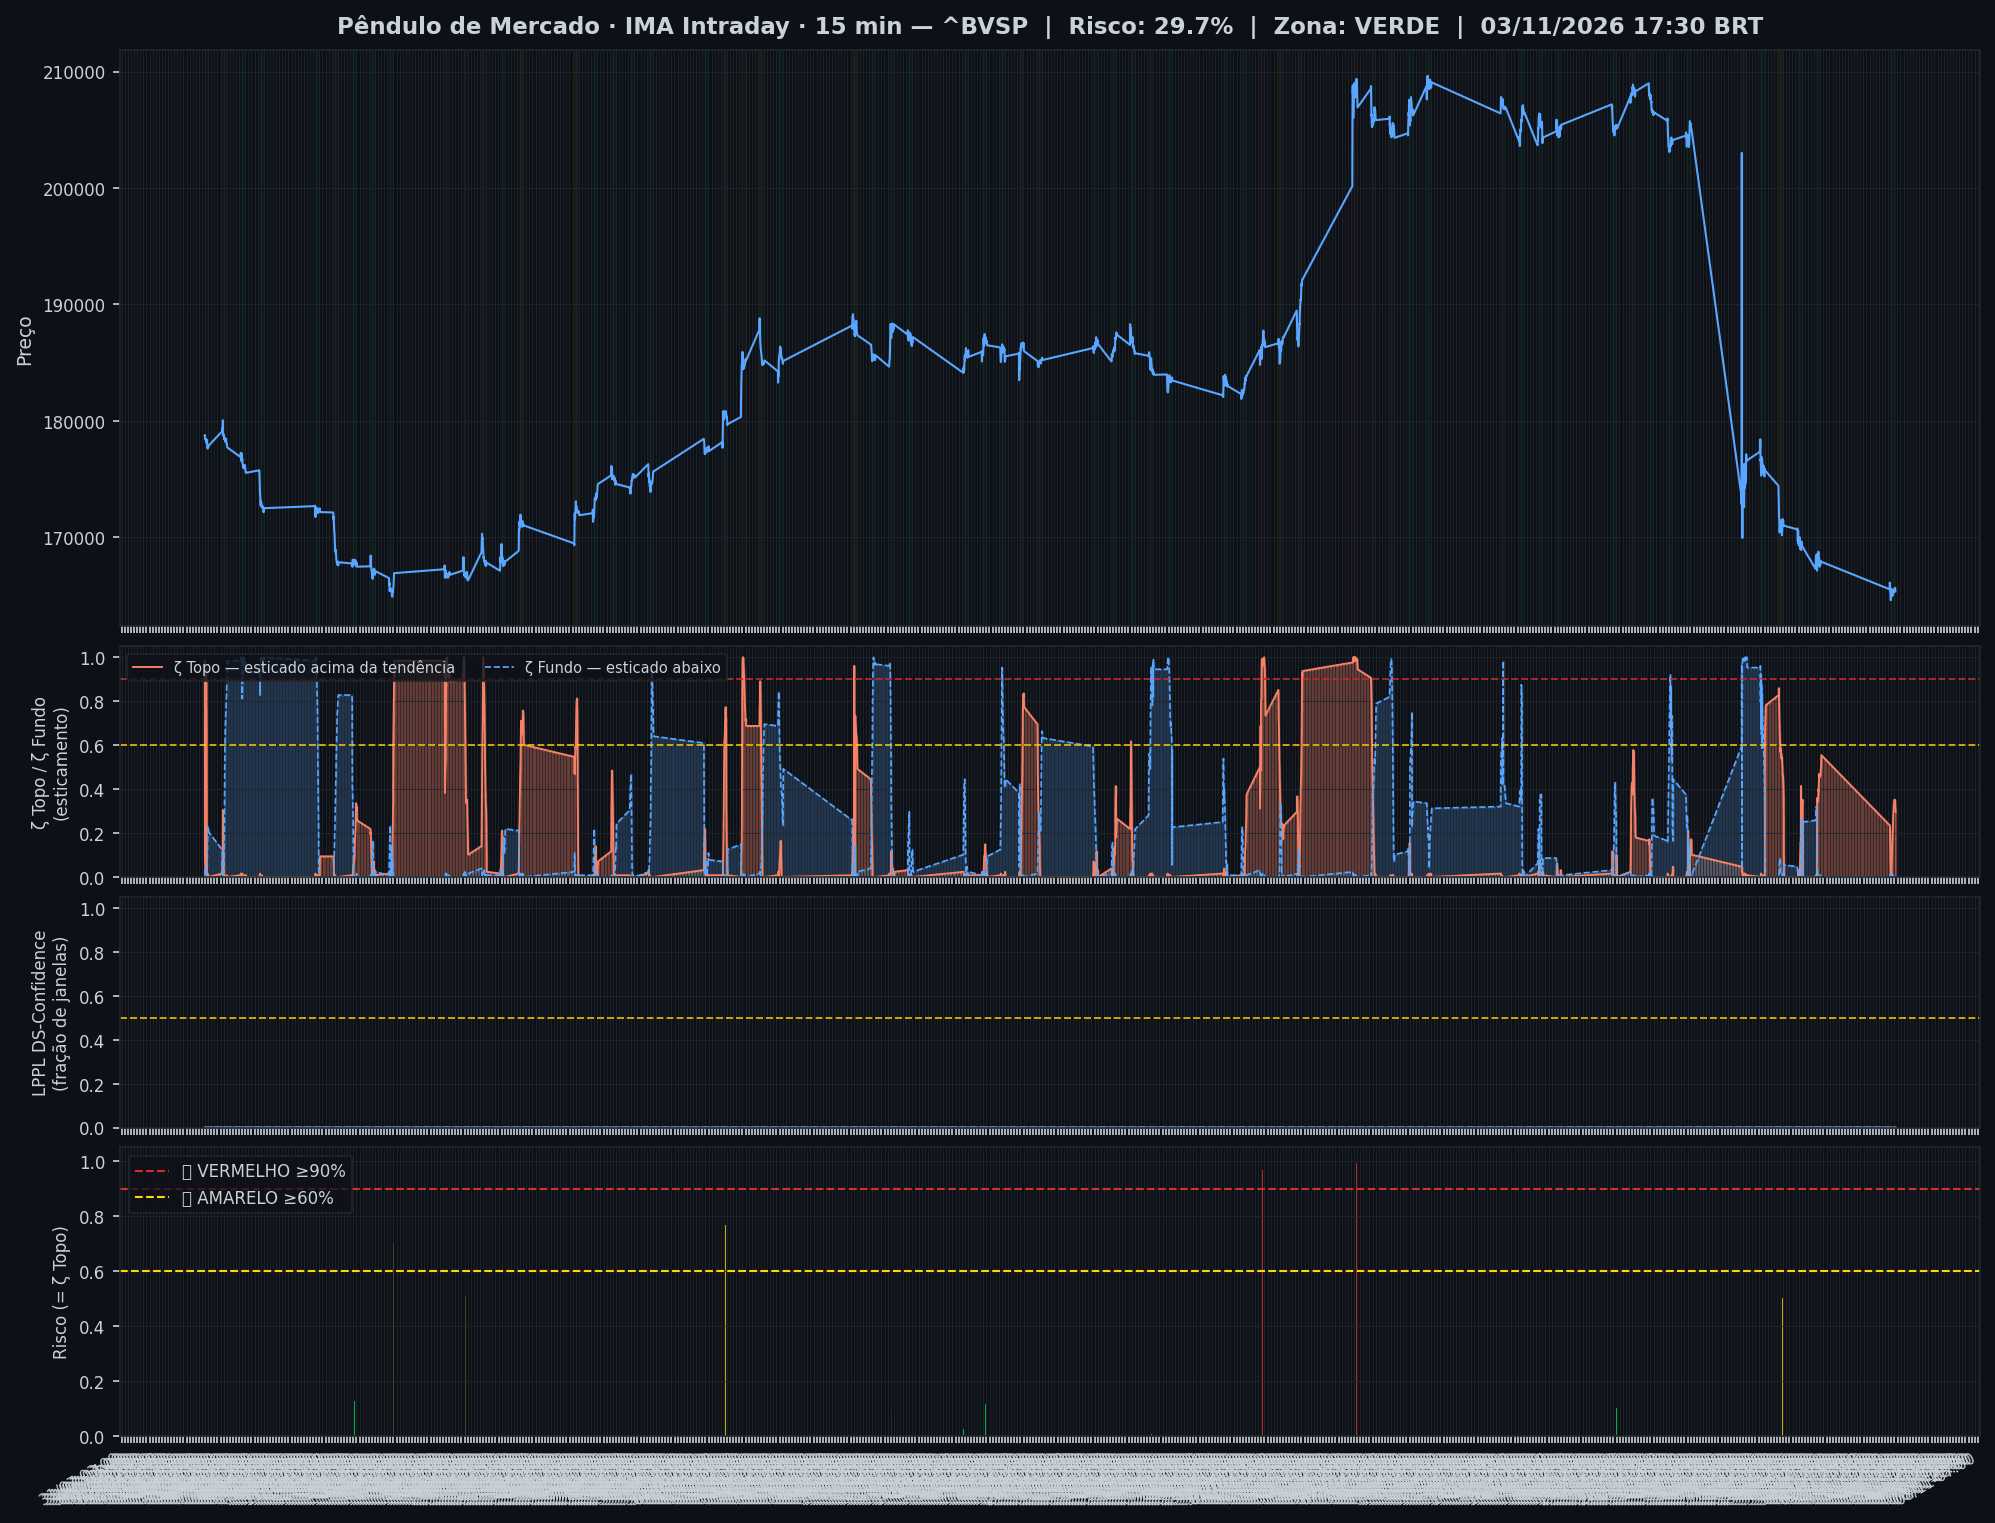
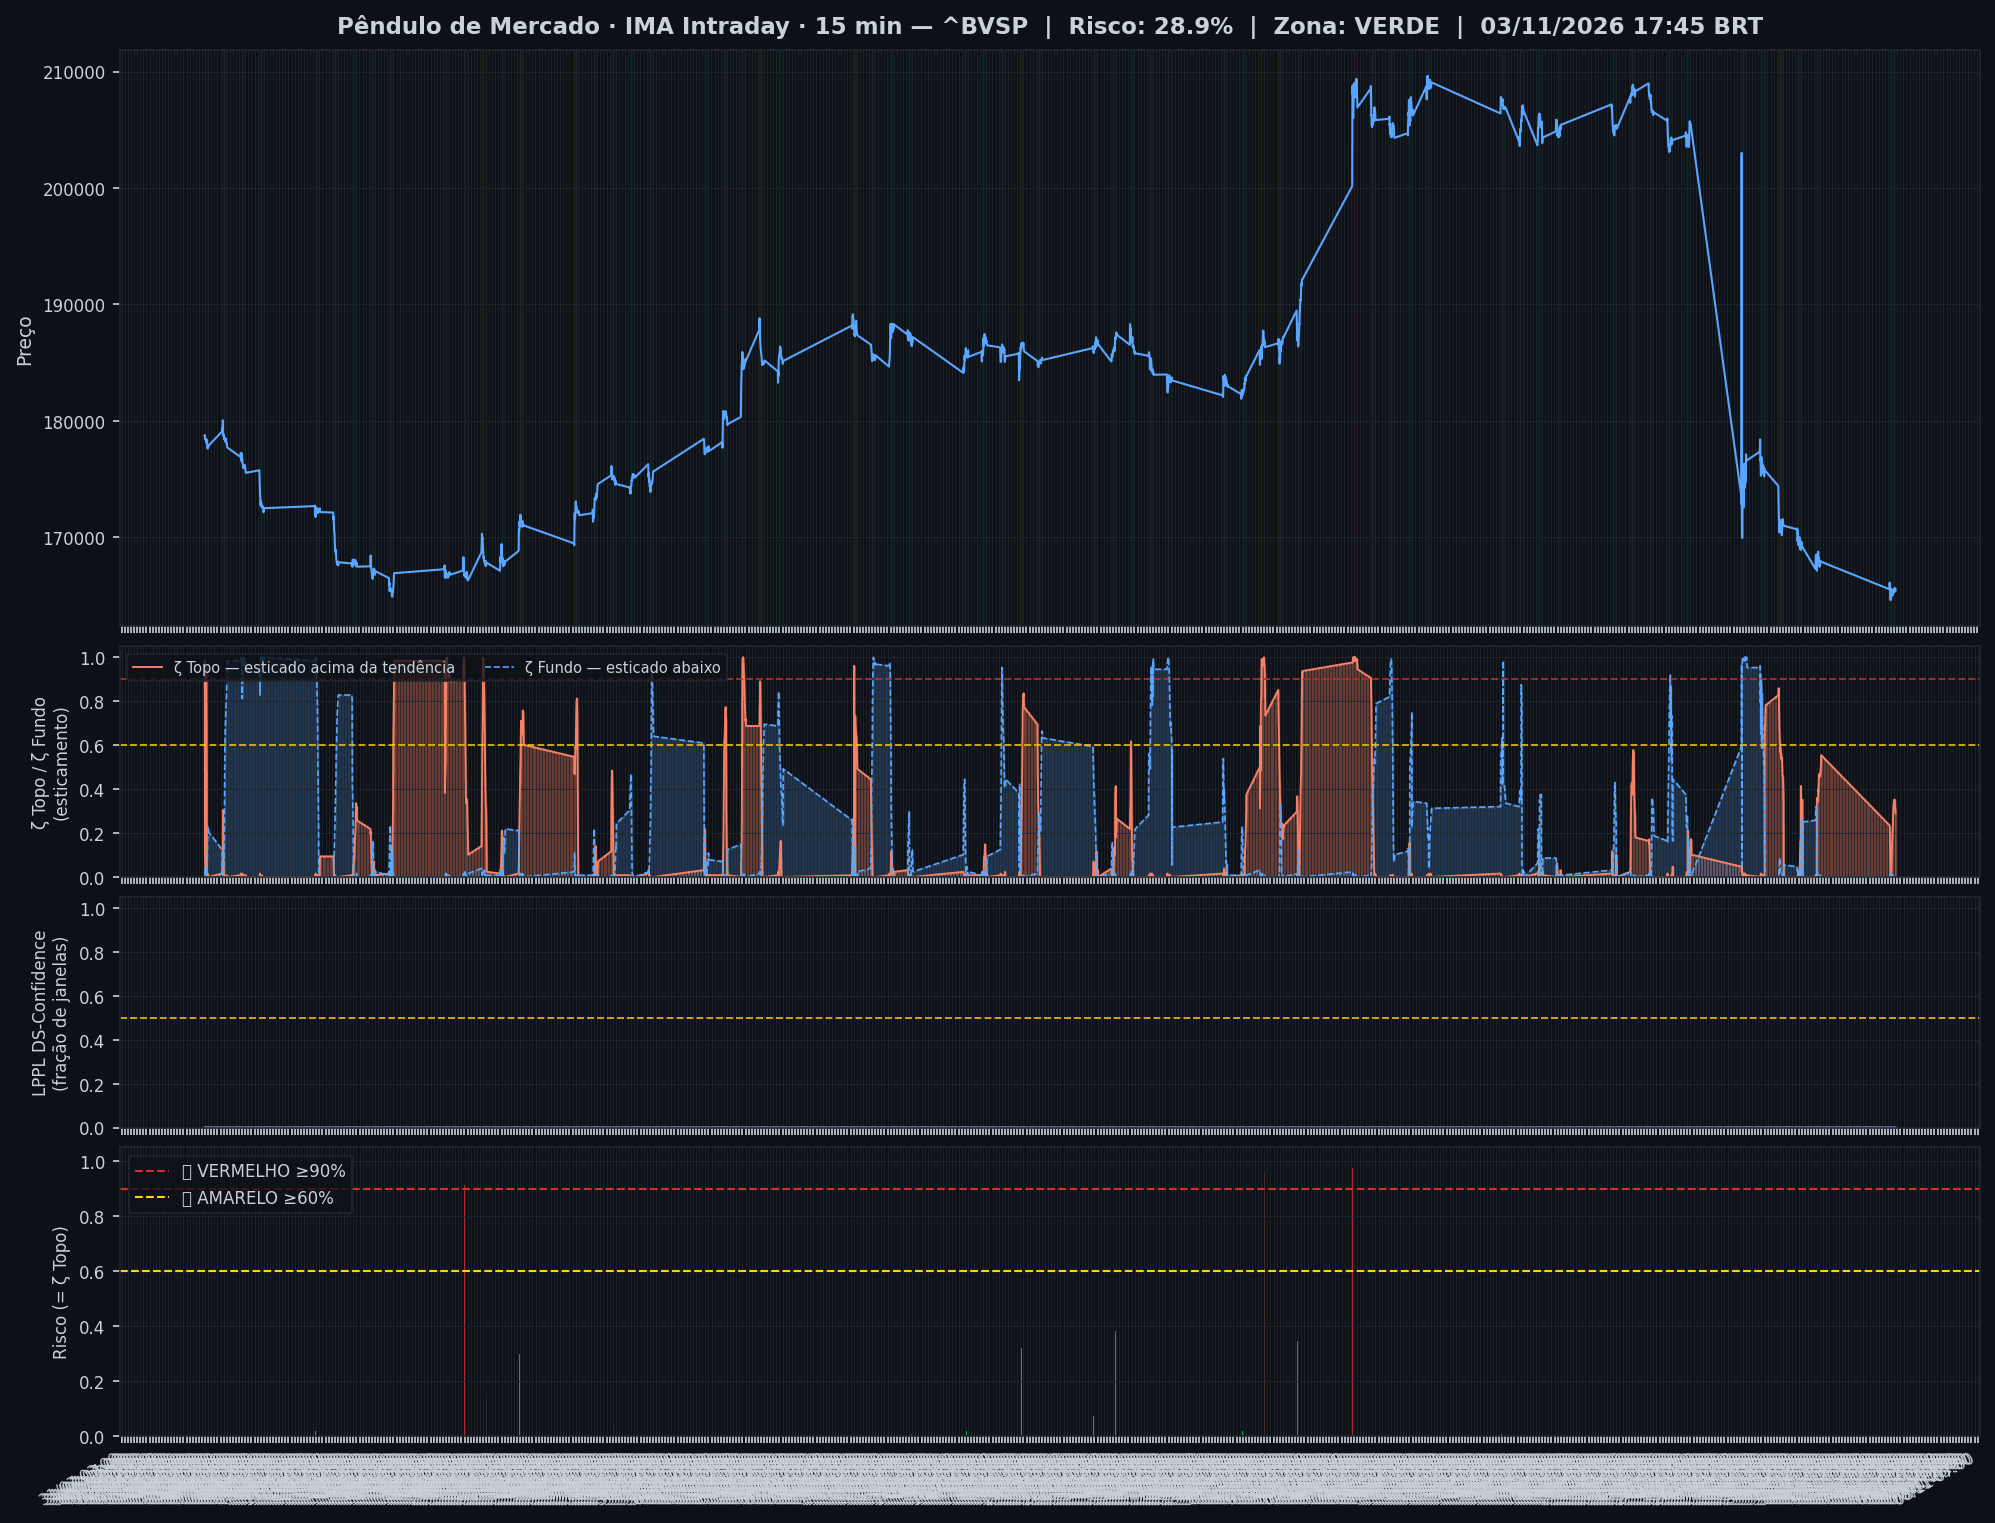
🤖 Auto: Sinal 03/11/2026 18:01

diff --git a/content/intraday/2026-11-03.md b/content/intraday/2026-11-03.md
@@ -1,10 +1,10 @@
 ---
-title: "🟢 Intraday 03/11/2026 17:30 BRT — VERDE"
+title: "🟢 Intraday 03/11/2026 17:45 BRT — VERDE"
 date: 2026-11-03
 tags: [intraday]
 ---
 
-> [!success] Onde o mercado está agora (03/11 17:30, candles de 15 min): **🟢 Calmo**
+> [!success] Onde o mercado está agora (03/11 17:45, candles de 15 min): **🟢 Calmo**
 > `Pânico ◀─────────────●───────▶ Euforia`
 >
 > O Ibovespa está dentro da sua faixa normal, sem excesso para cima nem para baixo.
@@ -20,7 +20,7 @@ tags: [intraday]
 > | 📍 **Sinais** | hoje: 2 sinal(is), 1 forte(s) | [abrir](sinais-topo-fundo/) |
 > | 🧪 **Placar ao vivo** | 1 operação(ões), 0 com lucro, soma -0,8% | [abrir](operacoes/) |
 
-> [!success] IMA Intraday · 15 min (03/11 17:30): 🟢 **VERDE** — Risco 30% · ▼ -2 p.p. vs leitura anterior
+> [!success] IMA Intraday · 15 min (03/11 17:45): 🟢 **VERDE** — Risco 29% · ▼ -1 p.p. vs leitura anterior
 > `██████░░░░░░░░░░░░░░`
 > Preço na faixa normal em torno da tendência.
 
@@ -32,13 +32,13 @@ tags: [intraday]
 >
 > *Leitura educacional baseada em 26 anos de dados, não recomendação. [Como usar](../metodologia/crise#3-como-usar-na-prática).*
 
-| Indicador — IMA Intraday · 15 min (03/11 17:30) | Valor |
+| Indicador — IMA Intraday · 15 min (03/11 17:45) | Valor |
 |---|---|
-| 🔴 ζ Topo — preço esticado acima da tendência | **30%** |
+| 🔴 ζ Topo — preço esticado acima da tendência | **29%** |
 | 🔵 ζ Fundo — preço esticado abaixo da tendência | 0% |
 | 🫧 LPPL bolha — alta super-exponencial (risco de crash) | 0% |
 | 🫧 LPPL antibolha — queda super-exponencial (risco de repique) | 0% |
-| 📊 Ibovespa | 165.366 pts |
+| 📊 Ibovespa | 165.569 pts |
 
 ![Gráfico do sinal](../graficos/sinal_intraday.png)
 
@@ -46,6 +46,7 @@ tags: [intraday]
 
 | Data | Zona | Evento | Risco | ζ Topo | ζ Fundo | LPPL |
 |---|---|---|---|---|---|---|
+| 2026-11-03 17:45 | 🟢 VERDE |  | **29%** | 29% | 0% | 0% |
 | 2026-11-03 17:30 | 🟢 VERDE |  | **30%** | 30% | 0% | 0% |
 | 2026-11-03 17:15 | 🟢 VERDE |  | **31%** | 31% | 0% | 0% |
 | 2026-11-03 17:00 | 🟢 VERDE |  | **32%** | 32% | 0% | 0% |
@@ -75,7 +76,6 @@ tags: [intraday]
 | 2026-11-03 11:00 | 🟢 VERDE |  | **2%** | 2% | 2% | 0% |
 | 2026-11-03 10:45 | 🟢 VERDE |  | **7%** | 7% | 1% | 0% |
 | 2026-11-03 10:30 | 🟢 VERDE |  | **13%** | 13% | 1% | 0% |
-| 2026-11-03 10:15 | 🟢 VERDE |  | **20%** | 20% | 1% | 0% |
 
 <small>Destaques: 🟡 ≥ 60% · 🔴 ≥ 90% (Risco e ζ Topo) · 🔵 ≥ 60% · 🔪 ≥ 90% (ζ Fundo) · 🫧 ≥ 30% · 🫧🔴 ≥ 50% (LPPL)</small>
 
@@ -86,37 +86,37 @@ tags: [intraday]
 | Zona | Ativo | Setor | ζ Topo | ζ Fundo |
 |---|---|---|---|---|
 | 🟢 | **USD/BRL** | Câmbio | 0.0% | 47.7% |
-| 🟢 | **VIBRA** | Energia | 45.3% | 0.0% |
-| 🟢 | **SABESP** | Saneamento | 39.1% | 0.0% |
-| 🟢 | **EMBRAER** | Outros | 0.0% | 35.9% |
-| 🟢 | **COPEL** | Energia | 35.9% | 0.0% |
+| 🟢 | **SABESP** | Saneamento | 38.3% | 0.0% |
+| 🟢 | **VIBRA** | Energia | 38.3% | 0.0% |
+| 🟢 | **EMBRAER** | Outros | 0.0% | 37.5% |
+| 🟢 | **COPEL** | Energia | 36.7% | 0.0% |
 | 🟢 | **ENEVA** | Energia | 32.0% | 0.0% |
-| 🟢 | **B3** | Financeiro | 29.7% | 0.0% |
-| 🟢 | **AMBEV S/A** | Consumo | 29.7% | 0.0% |
-| 🟢 | **BTGP BANCO** | Financeiro | 28.9% | 0.0% |
+| 🟢 | **AMBEV S/A** | Consumo | 28.9% | 0.0% |
+| 🟢 | **ULTRAPAR** | Outros | 28.9% | 0.0% |
 | 🟢 | **REDE D OR** | Saúde | 28.9% | 0.0% |
-| 🟢 | **ULTRAPAR** | Outros | 28.1% | 0.0% |
-| 🟢 | **ITAUSA** | Financeiro | 27.3% | 0.0% |
-| 🟢 | **PETROBRAS** | Petróleo | 26.6% | 0.0% |
-| 🟢 | **EQUATORIAL** | Energia | 23.4% | 0.0% |
-| 🟢 | **LOCALIZA** | Aluguel | 21.1% | 0.0% |
-| 🟢 | **BRASIL** | Financeiro | 20.3% | 0.0% |
-| 🟢 | **ITAUUNIBANCO** | Financeiro | 15.6% | 0.0% |
-| 🟢 | **SUZANO S.A.** | Papel/Celulose | 0.0% | 15.6% |
-| 🟢 | **WEG** | Industrial | 14.8% | 0.0% |
-| 🟢 | **PETROBRAS** | Petróleo | 14.1% | 0.0% |
-| 🟢 | **BRADESCO** | Financeiro | 12.5% | 0.0% |
-| 🟢 | **VALE** | Mineração | 0.0% | 3.1% |
-| 🟢 | **AXIA ENERGIA** | Energia | 3.1% | 0.0% |
+| 🟢 | **PETROBRAS** | Petróleo | 27.3% | 0.0% |
+| 🟢 | **B3** | Financeiro | 27.3% | 0.0% |
+| 🟢 | **BTGP BANCO** | Financeiro | 27.3% | 0.0% |
+| 🟢 | **ITAUSA** | Financeiro | 25.8% | 0.0% |
+| 🟢 | **EQUATORIAL** | Energia | 21.9% | 0.0% |
+| 🟢 | **BRASIL** | Financeiro | 19.5% | 0.0% |
+| 🟢 | **LOCALIZA** | Aluguel | 19.5% | 0.0% |
+| 🟢 | **SUZANO S.A.** | Papel/Celulose | 0.0% | 17.2% |
+| 🟢 | **PETROBRAS** | Petróleo | 15.6% | 0.0% |
+| 🟢 | **WEG** | Industrial | 14.1% | 0.8% |
+| 🟢 | **ITAUUNIBANCO** | Financeiro | 11.7% | 0.0% |
+| 🟢 | **BRADESCO** | Financeiro | 11.7% | 0.0% |
+| 🟢 | **AXIA ENERGIA** | Energia | 2.3% | 0.0% |
+| 🟢 | **VALE** | Mineração | 0.8% | 0.8% |
 | 🟢 | **PRIO** | Petróleo | 0.0% | 0.8% |
+| 🟢 | **GERDAU** | Siderurgia | 0.0% | 0.8% |
 | 🟢 | **BBSEGURIDADE** | Financeiro | 0.8% | 0.0% |
-| 🟢 | **GERDAU** | Siderurgia | 0.0% | 0.0% |
 
 <small>Destaques: 🟡 ≥ 60% · 🔴 ≥ 90% (Risco e ζ Topo) · 🔵 ≥ 60% · 🔪 ≥ 90% (ζ Fundo) · 🫧 ≥ 30% · 🫧🔴 ≥ 50% (LPPL)</small>
 
 ![Monitor multi-ativo](../graficos/multi_intraday.png)
 
-*Página atualizada em 03/11/2026 17:45 BRT (leitura da barra de 2026-11-03 17:30 BRT).*
+*Página atualizada em 03/11/2026 18:01 BRT (leitura da barra de 2026-11-03 17:45 BRT).*
 
 > [!warning] O que este indicador não faz
 > Medido em 5 anos de Ibovespa, o ζ **não antecipa** topos nem fundos: a capacidade de separar o que sobe do que cai ficou em 0,49–0,52, e 0,50 é moeda jogada ao ar. Ele descreve o estado de agora; não é aviso do que vem. As zonas verde/amarelo/vermelho continuam na página como descrição desse estado — **não as use como sinal de entrada ou saída**.

diff --git a/content/index.md b/content/index.md
@@ -6,9 +6,9 @@ tags: [home]
 
 **As ondas do mercado, explicadas.** Leitura do Ibovespa com estatística de 26 anos, baseada no trabalho de pesquisadores e traders reconhecidos e adaptada por Jarbas Daniel da Costa.
 
-*Última atualização: 03/11/2026 17:45 BRT · Intraday 15min*
+*Última atualização: 03/11/2026 18:01 BRT · Intraday 15min*
 
-> [!success] Onde o mercado está agora (03/11 17:30, candles de 15 min): **🟢 Calmo**
+> [!success] Onde o mercado está agora (03/11 17:45, candles de 15 min): **🟢 Calmo**
 > `Pânico ◀─────────────●───────▶ Euforia`
 >
 > O Ibovespa está dentro da sua faixa normal, sem excesso para cima nem para baixo.
@@ -20,7 +20,7 @@ tags: [home]
 
 | Módulo | Agora | |
 |---|---|---|
-| 🌊 **Sinal de Crise** | 🟢 VERDE · 🟢 calmo · ζ Topo 30% | [relatório](intraday/2026-11-03) |
+| 🌊 **Sinal de Crise** | 🟢 VERDE · 🟢 calmo · ζ Topo 29% | [relatório](intraday/2026-11-03) |
 | 📈 **Tendência MME9** | Diário — fora<br>Semanal ⚡ saiu hoje às 10:00 a 167.008 (confirma às 19h) | [abrir](operacoes/tendencia) |
 | 🎯 **Entradas do método** | ⏳ aguardando: Diário · Nadaraya, H4 · Semáforo N2, Diário · Semáforo N3 após ζ Fundo | [abrir](operacoes/entradas) |
 | 📍 **Sinais** | hoje: 2 sinal(is), 1 forte(s) | [abrir](sinais-topo-fundo/) |
@@ -61,18 +61,18 @@ tags: [home]
 > *Leitura educacional baseada em 26 anos de dados, não recomendação. [Como usar](metodologia/crise#3-como-usar-na-prática).*
 
 > [!info]- 🌊 Detalhes do Sinal de Crise (indicadores e últimos 7 pregões)
-> > [!success] IMA Intraday · 15 min (03/11 17:30): 🟢 **VERDE** — Risco 30% · ▼ -2 p.p. vs leitura anterior
+> > [!success] IMA Intraday · 15 min (03/11 17:45): 🟢 **VERDE** — Risco 29% · ▼ -1 p.p. vs leitura anterior
 > > `██████░░░░░░░░░░░░░░`
 > > Preço na faixa normal em torno da tendência.
 >
 >
-> | Indicador — IMA Intraday · 15 min (03/11 17:30) | Valor |
+> | Indicador — IMA Intraday · 15 min (03/11 17:45) | Valor |
 > |---|---|
-> | 🔴 ζ Topo — preço esticado acima da tendência | **30%** |
+> | 🔴 ζ Topo — preço esticado acima da tendência | **29%** |
 > | 🔵 ζ Fundo — preço esticado abaixo da tendência | 0% |
 > | 🫧 LPPL bolha — alta super-exponencial (risco de crash) | 0% |
 > | 🫧 LPPL antibolha — queda super-exponencial (risco de repique) | 0% |
-> | 📊 Ibovespa | 165.366 pts |
+> | 📊 Ibovespa | 165.569 pts |
 >
 > **Multi-ativo:** 0% em tensão (0🔴 0🟡 de 26 ativos)
 >
@@ -80,7 +80,7 @@ tags: [home]
 >
 > | Data | Zona | Risco | ζ Topo | ζ Fundo | LPPL |
 > |---|---|---|---|---|---|
-> | [03/11/2026](intraday/2026-11-03) | 🟢 VERDE | **30%** | 30% | 0% | 0% |
+> | [03/11/2026](intraday/2026-11-03) | 🟢 VERDE | **29%** | 29% | 0% | 0% |
 >
 > <small>Destaques: 🟡 ≥ 60% · 🔴 ≥ 90% (Risco e ζ Topo) · 🔵 ≥ 60% · 🔪 ≥ 90% (ζ Fundo) · 🫧 ≥ 30% · 🫧🔴 ≥ 50% (LPPL)</small>
 >

diff --git a/content/operacoes/entradas.md b/content/operacoes/entradas.md
@@ -31,7 +31,7 @@ description: "Compra depois de um sinal de fundo: Nadaraya no diário, semáforo
 > | Diário · Semáforo N3 após ζ Fundo | 07/07/26 a 172.021 | 10/08/26 a 172.021 | **+0,0%** | stop no preço de entrada |
 > | H4 · Semáforo N2 | 12/06/26 14h a 171.134 | 15/06/26 14h a 171.134 | **+0,0%** | stop no preço de entrada |
 >
-> <small>Atualizado 02/11 19:00 · checado no pregão às 17:45. Nota: ✅ passou no teste fora da amostra (walk-forward 2008–2026) · 🧪 em teste (H4, com aviso no Telegram) ou em observação (ζ, sem aviso) · 🧪 na tabela = operação do teste ao vivo.</small>
+> <small>Atualizado 02/11 19:00 · checado no pregão às 18:00. Nota: ✅ passou no teste fora da amostra (walk-forward 2008–2026) · 🧪 em teste (H4, com aviso no Telegram) ou em observação (ζ, sem aviso) · 🧪 na tabela = operação do teste ao vivo.</small>
 >
 > *Regras: depois de um sinal de fundo, o Diário entra quando o Nadaraya vira para cima; o Semanal e o H4 entram quando um fundo do semáforo fica fixo. Stop e saída de cada regra na [metodologia](metodologia/regras-de-operacao#entradas-do-método). Nenhuma regra de venda passou no teste. Os números do histórico têm viés de escolha (overfitting); o placar ao vivo é o que vale. Leitura educacional do método, não recomendação.*
 

diff --git a/content/historico.md b/content/historico.md
@@ -5,7 +5,7 @@ tags: [historico]
 
 # 📜 Histórico de leituras (v5)
 
-**2.106 leituras** desde 2026-07-03. Na página ficam os últimos 3 dias leitura por leitura e o resumo de cada dia anterior; o registro inteiro está no arquivo para baixar.
+**2.107 leituras** desde 2026-07-03. Na página ficam os últimos 3 dias leitura por leitura e o resumo de cada dia anterior; o registro inteiro está no arquivo para baixar.
 
 [**Baixar o histórico completo**](historico-completo.csv) (92 KB · abre no Excel e no LibreOffice)
 
@@ -16,6 +16,7 @@ tags: [historico]
 
 | Data | Modo | Zona | Risco | IMA | LPPL |
 |---|---|---|---|---|---|
+| 2026-11-03 17:45 | intraday | 🟢 VERDE | 29% | 29% | 0% |
 | 2026-11-03 17:30 | intraday | 🟢 VERDE | 30% | 30% | 0% |
 | 2026-11-03 17:15 | intraday | 🟢 VERDE | 31% | 31% | 0% |
 | 2026-11-03 17:00 | intraday | 🟢 VERDE | 32% | 32% | 0% |

diff --git a/content/operacoes/ranking.md b/content/operacoes/ranking.md
@@ -5,7 +5,7 @@ tags: [operacoes]
 description: "As regras de compra do site ordenadas pelo resultado, com treino, teste e placar ao vivo"
 ---
 
-*Atualizado 03/11/2026 17:45 · histórico simulado com as regras congeladas em 23/10/2026 + placar ao vivo.*
+*Atualizado 03/11/2026 18:01 · histórico simulado com as regras congeladas em 23/10/2026 + placar ao vivo.*
 
 As regras de compra do site, **da que mais rendeu para a que menos rendeu**. O resultado é por operação, no índice à vista, sem custos e sem juros compostos (a soma é só a soma das operações). **Treino** = entradas de 2001 a 2013 e **teste** = 2014 em diante: uma regra só é confiável se ganhou nos dois. O único resultado sem nenhum ajuste ao histórico é o **placar ao vivo**.
 

diff --git a/content/linha-do-tempo/index.md b/content/linha-do-tempo/index.md
@@ -5,7 +5,7 @@ description: "Todo sinal, ordem, stop e aviso do Pêndulo de Mercado, do mais re
 tags: [eventos]
 ---
 
-*Atualizada 03/11/2026 17:45 BRT · a cada 15 min no pregão e às 19h.*
+*Atualizada 03/11/2026 18:01 BRT · a cada 15 min no pregão e às 19h.*
 
 Tudo o que o sistema fez ou detectou, **do mais recente para o mais antigo**: sinais de topo e fundo, ordens de compra e de venda armadas, compras, vendas, stops, avisos de 🚨 preço perto do nível e mudanças da Crise. Os **últimos 7 dias** ficam abertos; o resto, por **ano → mês → dia**.
 
